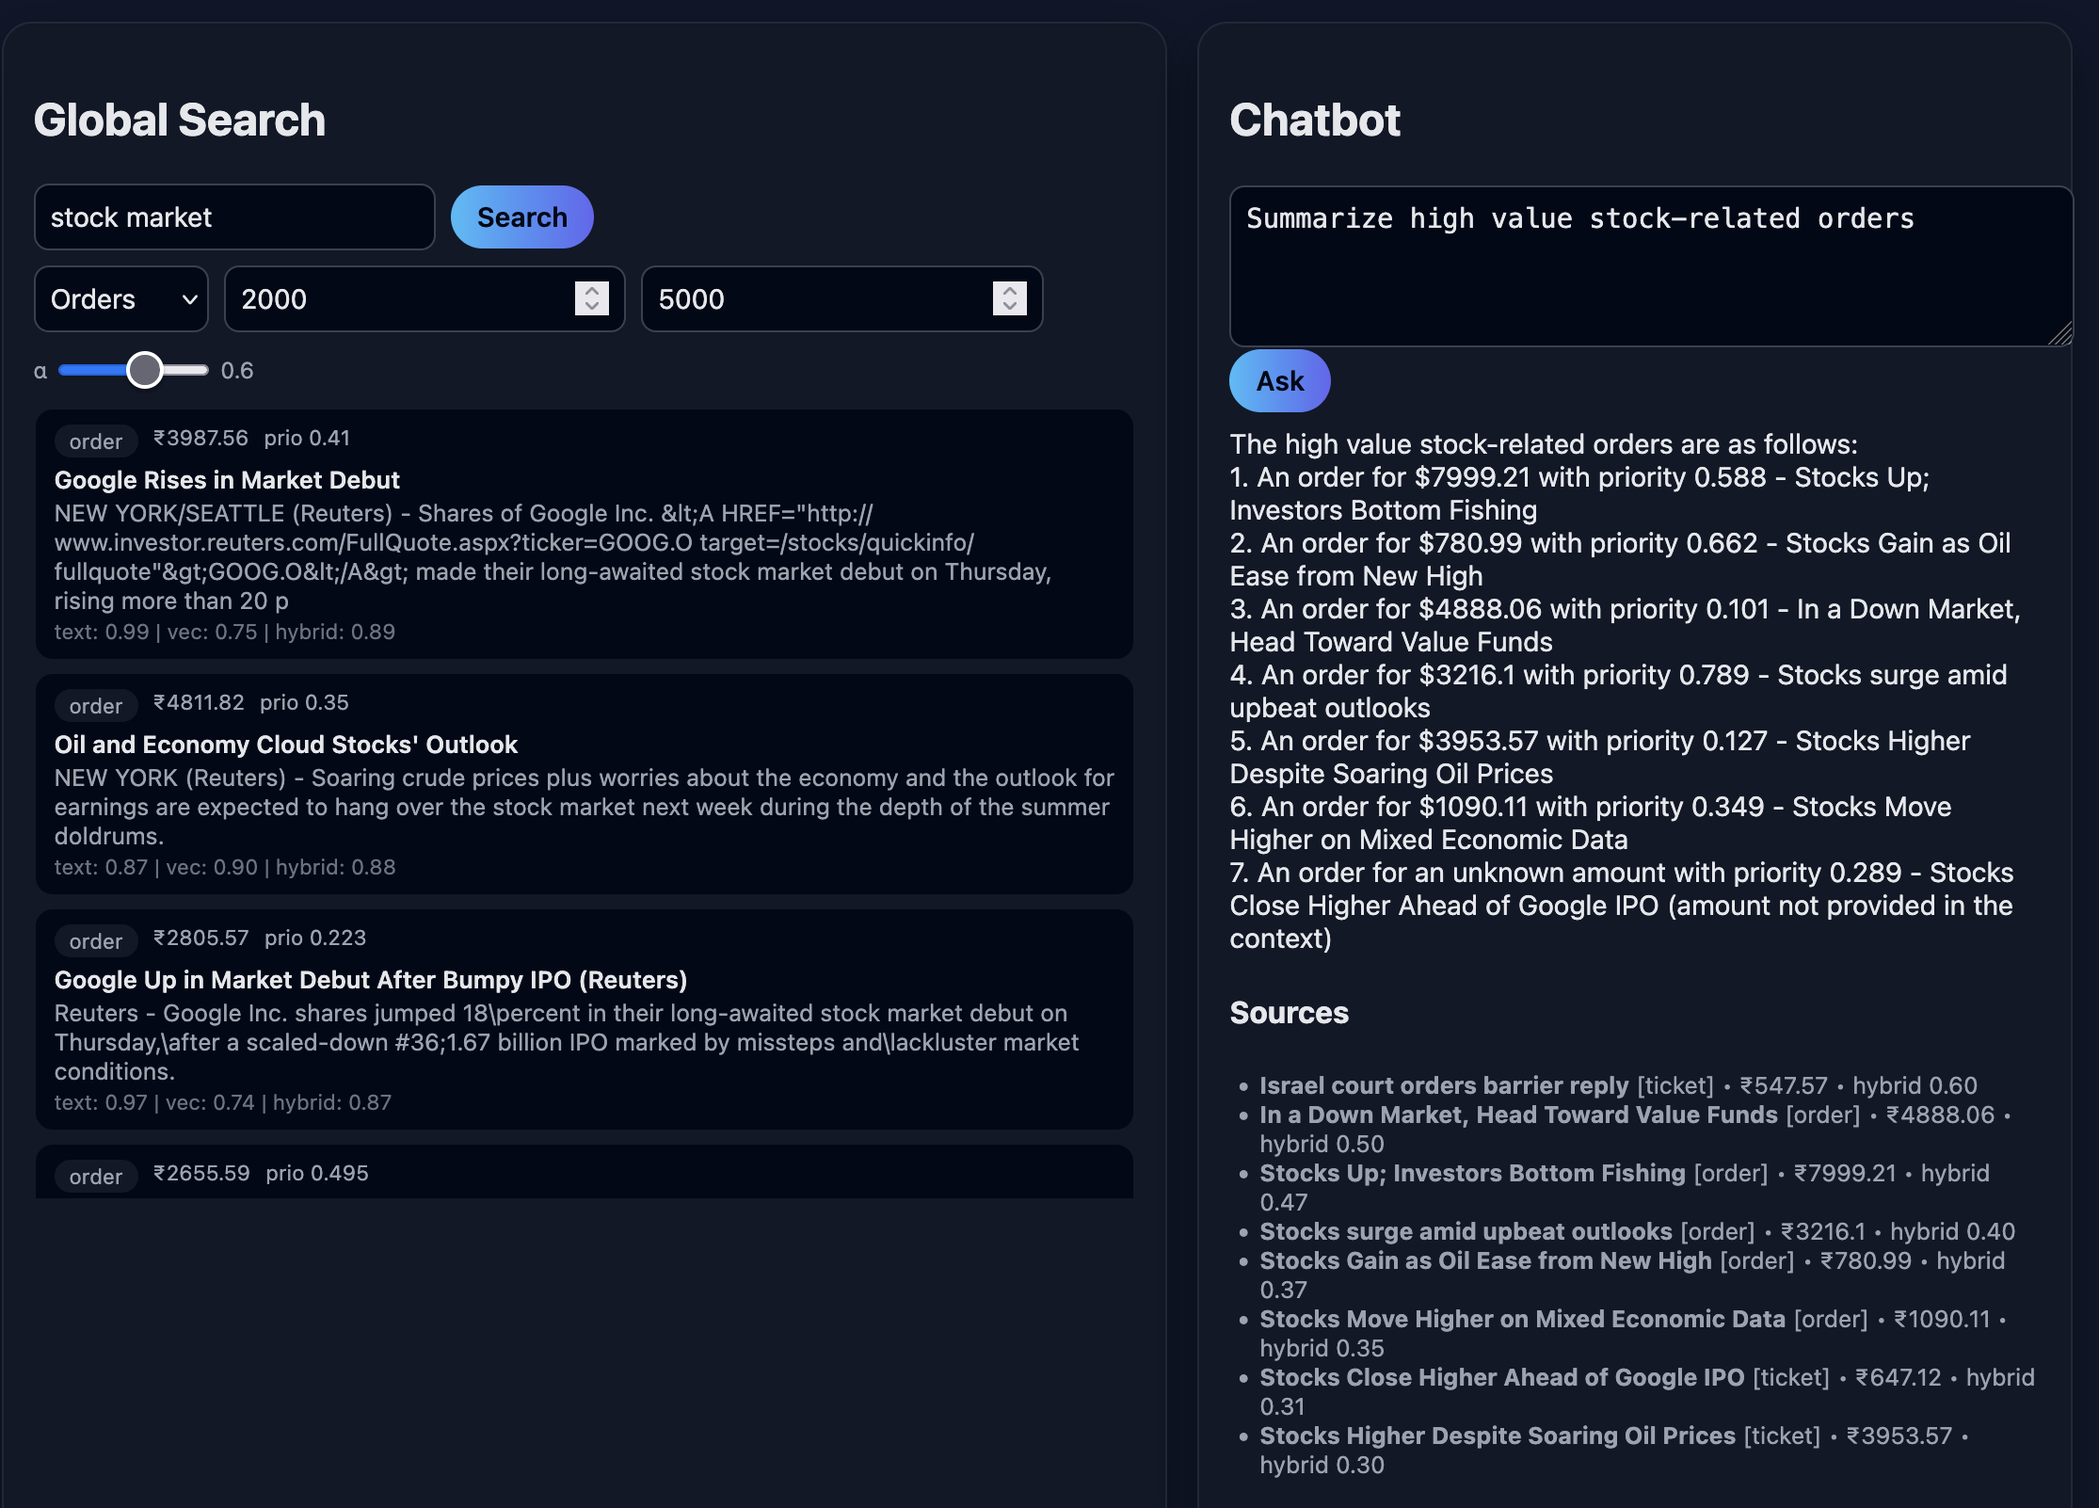
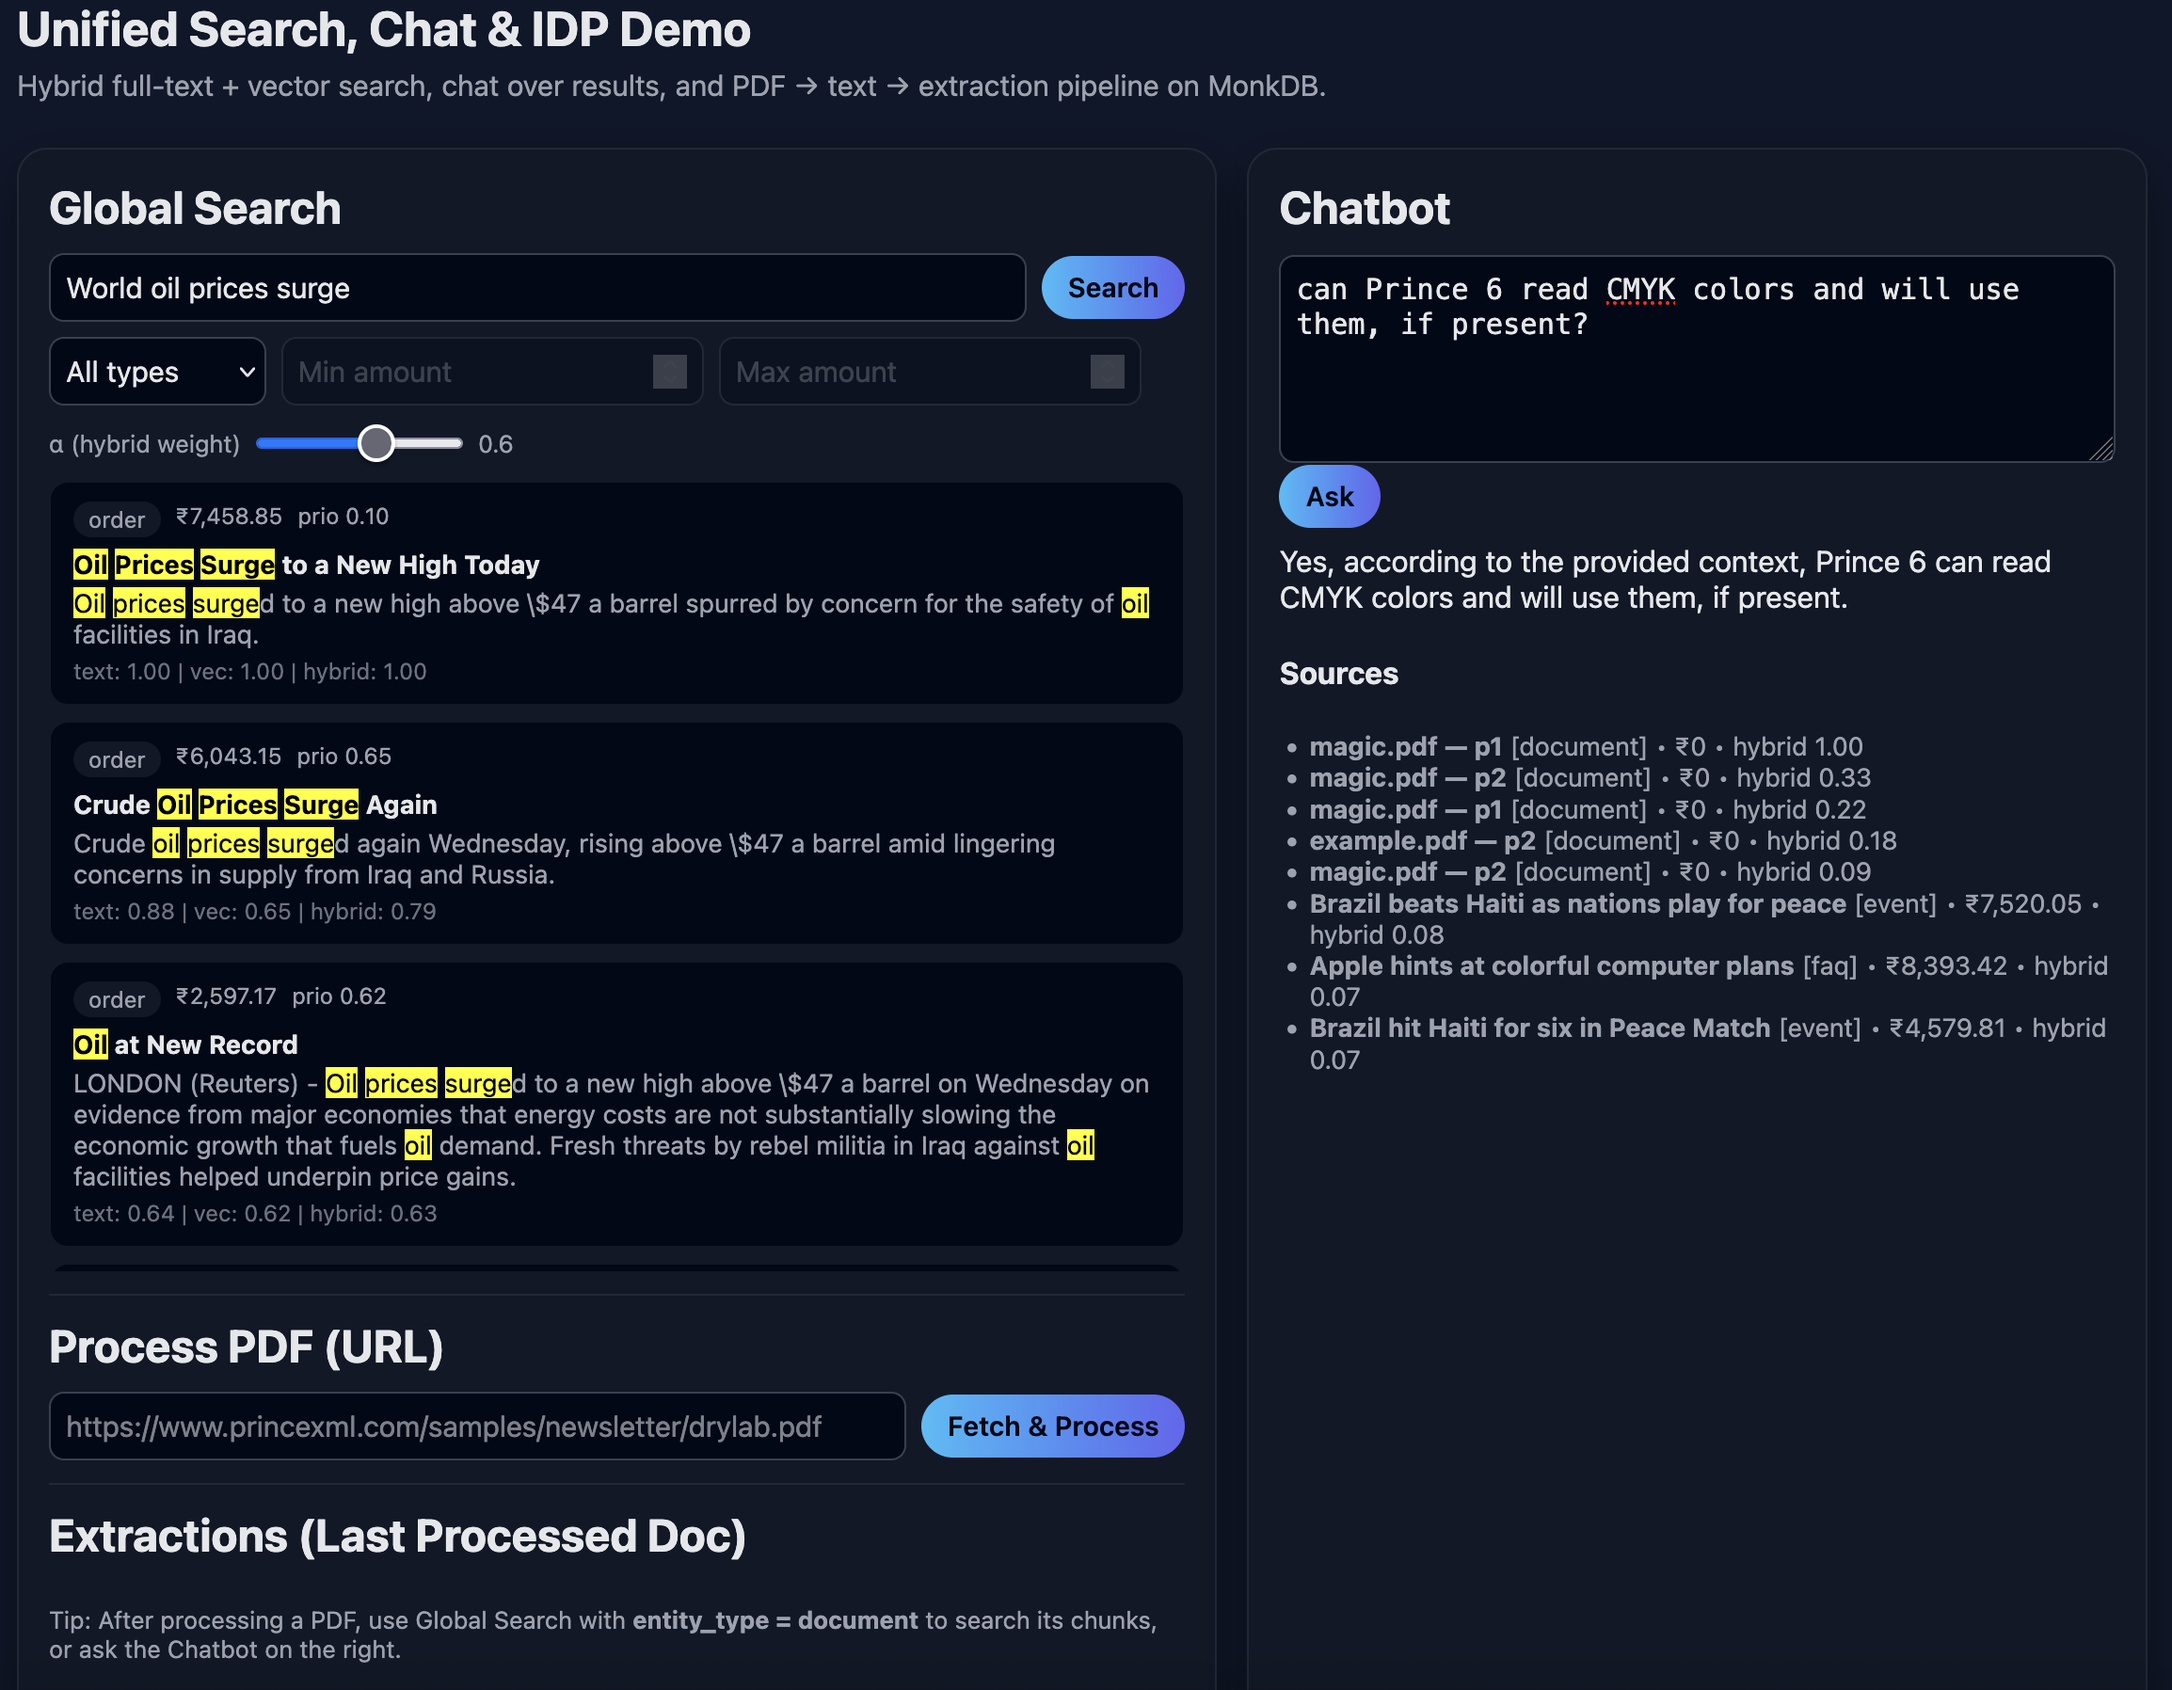
refined the front end a bit

diff --git a/static/index.html b/static/index.html
@@ -108,7 +108,7 @@
 <body>
   <div class="layout">
     <header class="header">
-      <h1>Unified Search, Chat & IDP Demo</h1>
+      <h1>Intelligent Document Processing</h1>
       <p>Hybrid full-text + vector search, chat over results, and PDF → text → extraction pipeline on MonkDB.</p>
     </header>
 
@@ -205,7 +205,34 @@
     const pdfFetchMsg = document.getElementById("pdfFetchMsg");
     const extractionsList = document.getElementById("extractionsList");
 
+    function toggleAmountLock() {
+      const isOrder = entityTypeInput.value === "order";
+      minAmountInput.disabled = maxAmountInput.disabled = !isOrder;
+
+      // optional visual cue
+      if (isOrder) {
+        minAmountInput.style.opacity = maxAmountInput.style.opacity = "1.0";
+      } else {
+        minAmountInput.style.opacity = maxAmountInput.style.opacity = "0.4";
+      }
+    }
+
+    entityTypeInput.addEventListener("change", toggleAmountLock);
+    toggleAmountLock();
+
+
     let lastDocId = null;
+
+    function highlight(text, query) {
+      if (!text || !query) return escapeHtml(text);
+      const terms = Array.from(new Set(query.toLowerCase().split(/\s+/).filter(t => t.length > 1)));
+      let out = escapeHtml(text);
+      for (const t of terms) {
+        const re = new RegExp(`(${t.replace(/[.*+?^${}()|[\]\\]/g,"\\$&")})`, "gi");
+        out = out.replace(re, "<mark>$1</mark>");
+      }
+      return out;
+    }
 
     // =======================
     // Utilities
@@ -291,8 +318,8 @@
               <span>${fmtMoney(r.amount)}</span>
               <span>prio ${Number(r.priority_score).toFixed(2)}</span>
             </div>
-            <div class="result-title">${escapeHtml(r.title)}</div>
-            <div class="result-body">${escapeHtml(r.body_snippet)}</div>
+            <div class="result-title">${highlight(r.title, q)}</div>
+            <div class="result-body">${highlight(r.body_snippet, q)}</div>
             <div class="result-scores">
               text: ${Number(r.score_text).toFixed(2)} |
               vec: ${Number(r.score_vector).toFixed(2)} |

diff --git a/app.py b/app.py
@@ -9,6 +9,7 @@ from fastapi import File, UploadFile, Body
 from pdfminer.high_level import extract_text as pdf_extract_text
 from pdf2image import convert_from_bytes
 import pytesseract
+import html as _html
 
 import requests
 from fastapi import FastAPI, Query, HTTPException
@@ -93,6 +94,19 @@ class ChatResponse(BaseModel):
 # Helpers
 # -------------------------
 
+TAG_RE = re.compile(r"<[^>]+>")
+WS_RE = re.compile(r"\s+")
+
+
+def _clean_snippet(txt: str, max_len: int = 320) -> str:
+    if not txt:
+        return ""
+    t = _html.unescape(txt)
+    t = TAG_RE.sub("", t)
+    t = WS_RE.sub(" ", t).strip()
+    return (t[:max_len].rstrip() + "…") if len(t) > max_len else t
+
+
 def normalize(scores: Dict[str, float]) -> Dict[str, float]:
     if not scores:
         return {}
@@ -138,13 +152,14 @@ def run_hybrid_search(
         vec_where.append("amount <= ?")
         vec_params.append(max_amount)
 
-    vec_sql = f"""
-        SELECT id, entity_type, title, body,
-               amount, priority_score, _score
+    vec_sql = """
+        SELECT id, entity_type, title, body, amount, priority_score, _score
         FROM doc.app_search
-        WHERE {' AND '.join(vec_where)}
-    """
-    cur.execute(vec_sql, tuple(vec_params))
+        WHERE {}
+        ORDER BY _score DESC
+        LIMIT ?
+        """.format(' AND '.join(vec_where))
+    cur.execute(vec_sql, tuple(vec_params + [k * 4]))
     vec_rows = cur.fetchall()
 
     # 3) Full-text search
@@ -221,8 +236,8 @@ def run_hybrid_search(
             SearchResult(
                 id=meta["id"],
                 entity_type=meta["entity_type"],
-                title=meta["title"],
-                body_snippet=meta["body"][:5000],
+                title=_clean_snippet(meta["title"], 180),
+                body_snippet=_clean_snippet(meta["body"], 5000),
                 amount=meta["amount"],
                 priority_score=meta["priority_score"],
                 score_text=st,
@@ -686,7 +701,7 @@ def chat(req: ChatRequest):
                 f"[{h.entity_type} | amount={h.amount} | prio={h.priority_score}] "
                 f"{h.title}\n{h.body_snippet[:1000]}"
             )
-            context = "\n\n".join(context_blocks)
+        context = "\n\n".join(context_blocks)
 
     else:
         context = "No relevant records found."
